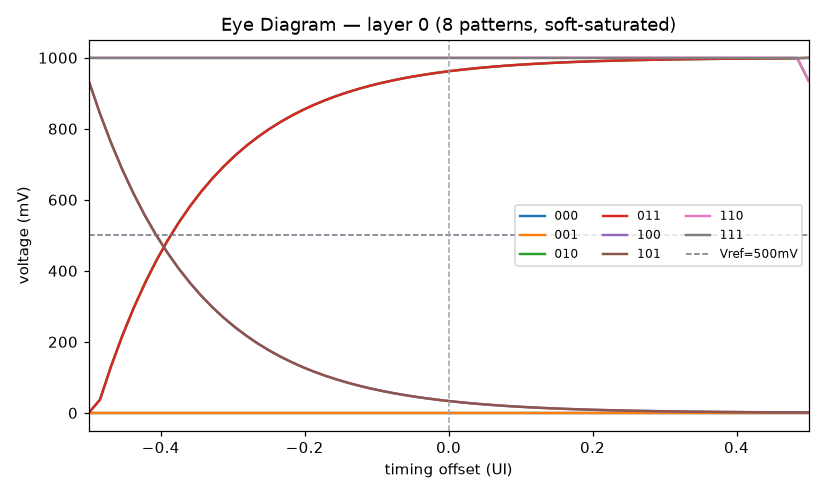
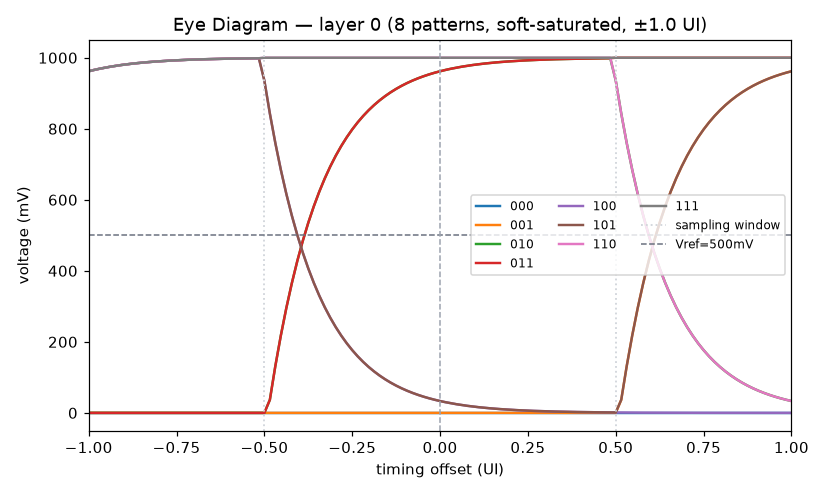
fix eye diagram: widen plot window to ±1 UI to show both transitions
Narrowing the window to [-0.5, +0.5] UI placed both bit boundaries at the
plot edges. The trailing edge (bit 17→18) started at t=17.99, leaving only
0.01 UI of the RC curve visible—appearing as an artificial cliff. At ±1 UI
both transitions unfold fully; the ±0.5 sampling window is marked with dotted
lines.

Claude-Session: https://claude.ai/code/session_01BXLTG8Nojd3yNq9VSTgSKL

diff --git a/src/shmoo/plotting.py b/src/shmoo/plotting.py
@@ -50,8 +50,13 @@ def plot_shmoo_grid(blob: np.ndarray, cfg: ShmooConfig, path: Path,
 
 
 def plot_eye_diagram(waves, cfg: ShmooConfig, path: Path,
-                     *, layer: int = 0) -> Path:
-    """Overlay the 8 pattern waveforms over [-0.5, +0.5] UI around the target.
+                     *, layer: int = 0, half_width: float = 1.0) -> Path:
+    """Overlay the 8 pattern waveforms over a ±half_width UI window.
+
+    The sampling window [timing_lo, timing_hi] is shown as vertical dashed
+    lines. Using half_width=1.0 (default) places both the leading and trailing
+    bit transitions fully inside the plot, avoiding the cliff artifact that
+    appears when the window is cut exactly at the bit boundaries.
 
     ``waves`` is a list of ``(pattern, t_axis, wave)`` from
     ``layer_envelopes(..., collect_waves=True)``.
@@ -65,16 +70,19 @@ def plot_eye_diagram(waves, cfg: ShmooConfig, path: Path,
     center = cfg.target_center
     for i, (pattern, t_axis, wave) in enumerate(waves):
         rel = t_axis - center
-        sel = (rel >= cfg.timing_lo) & (rel <= cfg.timing_hi)
+        sel = (rel >= -half_width) & (rel <= half_width)
         label = "".join(str(b) for b in pattern)
         ax.plot(rel[sel], wave[sel] * 1000, color=cmap(i % 10), label=label, lw=1.6)
 
+    # Sampling window boundaries
+    ax.axvline(cfg.timing_lo, ls=":", color="#d1d5db", lw=1.2, label="sampling window")
+    ax.axvline(cfg.timing_hi, ls=":", color="#d1d5db", lw=1.2)
     ax.axhline(500, ls="--", color="#6b7280", lw=1, label="Vref=500mV")
     ax.axvline(0.0, ls="--", color="#9ca3af", lw=1)
     ax.set_xlabel("timing offset (UI)")
     ax.set_ylabel("voltage (mV)")
-    ax.set_title(f"Eye Diagram — layer {layer} (8 patterns, soft-saturated)")
-    ax.set_xlim(cfg.timing_lo, cfg.timing_hi)
+    ax.set_title(f"Eye Diagram — layer {layer} (8 patterns, soft-saturated, ±{half_width} UI)")
+    ax.set_xlim(-half_width, half_width)
     ax.set_ylim(-50, 1050)
     ax.legend(ncol=3, fontsize=8, loc="center right")
     fig.tight_layout()